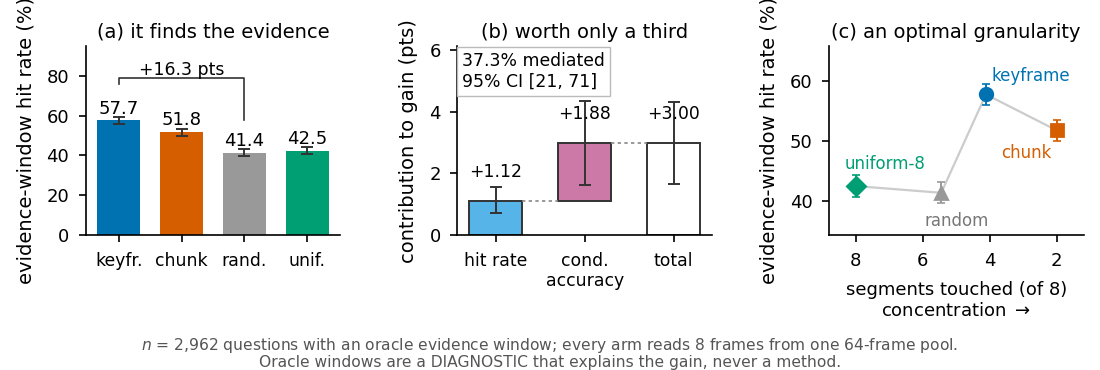
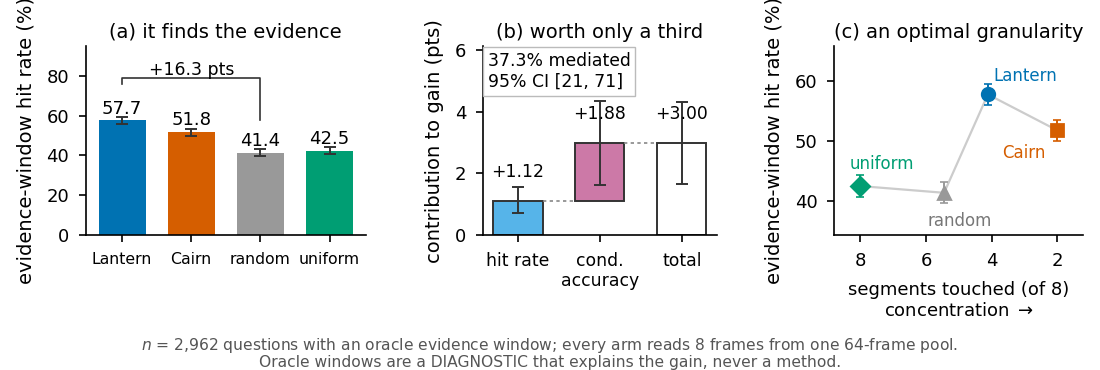
Relabel the method figure for Lantern and Cairn
The figure still carried the working names from before the methods were named. Its bars,
markers and colour key now read Lantern and Cairn, matching the paper text, and the first
panel is widened so the four mode labels no longer collide.

Also ignores the rendered external clip sets and the Overleaf staging directories, all of
which are regenerated rather than tracked.

diff --git a/solutions/shared/analysis/make_paper_figure.py b/solutions/shared/analysis/make_paper_figure.py
@@ -4,12 +4,12 @@
 Authored at the FINAL printed size (5.5in = ICLR \\linewidth) rather than at an arbitrary size and
 scaled by graphicx, so the tick/label point sizes in the PDF are the point sizes on the page.
 
-(a) evidence-window hit rate by selection mode  -> Path 1 finds the evidence
+(a) evidence-window hit rate by selection mode  -> Lantern finds the evidence
 (b) the exact mediation split                   -> ...but that is only a third of the gain
-(c) hit rate against concentration              -> Path 2's granularity is the wrong one
+(c) hit rate against concentration              -> Cairn's granularity is the wrong one
 
 Colours (Okabe-Ito, colourblind-safe), identical to the appendix figures:
-  keyframe / Path 1  #0072B2   chunk / Path 2  #D55E00   random  #999999   uniform-8  #009E73
+  Lantern  #0072B2    Cairn  #D55E00    random-8  #999999    uniform-8  #009E73
 
 All three panels condition on ORACLE evidence windows: they are DIAGNOSTICS that explain the
 measured gain, never methods and never an achievable accuracy.
@@ -28,16 +28,16 @@ matplotlib.rcParams.update({
 })
 D = str(Path(__file__).resolve().parent)
 C = {"referent": "#0072B2", "chunk": "#D55E00", "random": "#999999", "uniform": "#009E73"}
-# short tick labels: at 5.5in across three panels the full names collide, and the path/control
-# identity is carried by colour (stated in the caption) plus panel (c)'s in-place annotations.
-LBL = {"referent": "keyfr.", "chunk": "chunk", "random": "rand.", "uniform": "unif."}
+# Method names in the figure match the names in the text. The two controls are named for what
+# they are rather than for how they were implemented, so the panel is readable without the caption.
+LBL = {"referent": "Lantern", "chunk": "Cairn", "random": "random", "uniform": "uniform"}
 
 p1 = json.load(open(f"{D}/lantern_stats_tol.json"))
 p2 = json.load(open(f"{D}/cairn_stats_tol.json"))
 med = p1["mediation"]["internvl3-14b"]
 order = ["referent", "chunk", "random", "uniform"]
 
-fig, ax = plt.subplots(1, 3, figsize=(5.5, 1.85))
+fig, ax = plt.subplots(1, 3, figsize=(5.5, 1.85), gridspec_kw={"width_ratios": [1.10, 0.92, 0.98]})
 
 # ---- (a) hit rate ---------------------------------------------------------
 a = ax[0]
@@ -52,7 +52,7 @@ for i, x in enumerate(v):
 d = p1["hit_rate_delta"]["referent_minus_random"]
 a.plot([0, 0, 2, 2], [76, 79, 79, 58], lw=0.6, c="#333333")
 a.text(1.0, 80.5, f"+{d['delta']*100:.1f} pts", ha="center", fontsize=6.2)
-a.set_xticks(range(4)); a.set_xticklabels([LBL[m] for m in order], fontsize=6.2)
+a.set_xticks(range(4)); a.set_xticklabels([LBL[m] for m in order], fontsize=5.7)
 a.set_ylabel("evidence-window hit rate (%)"); a.set_ylim(0, 95)
 a.set_title("(a) it finds the evidence", fontsize=7, pad=3)
 
@@ -93,13 +93,13 @@ for m in order:
     e = [(hr[m]["rate"] - hr[m]["ci95"][0]) * 100, (hr[m]["ci95"][1] - hr[m]["rate"]) * 100]
     c.errorbar(bd[m]["mean_distinct_chunks"], bd[m]["hit_rate"], yerr=[[e[0]], [e[1]]],
                fmt=mk[m], ms=4.5, c=C[m], ecolor=C[m], lw=0.7, capsize=1.6, capthick=0.6, zorder=3)
-c.annotate("keyframe", (bd["referent"]["mean_distinct_chunks"], bd["referent"]["hit_rate"]),
+c.annotate("Lantern", (bd["referent"]["mean_distinct_chunks"], bd["referent"]["hit_rate"]),
            textcoords="offset points", xytext=(2, 5), fontsize=6, color=C["referent"])
-c.annotate("chunk", (bd["chunk"]["mean_distinct_chunks"], bd["chunk"]["hit_rate"]),
+c.annotate("Cairn", (bd["chunk"]["mean_distinct_chunks"], bd["chunk"]["hit_rate"]),
            textcoords="offset points", xytext=(-20, -10), fontsize=6, color=C["chunk"])
 c.annotate("random", (bd["random"]["mean_distinct_chunks"], bd["random"]["hit_rate"]),
            textcoords="offset points", xytext=(-6, -12), fontsize=6, color="#777777")
-c.annotate("uniform-8", (bd["uniform"]["mean_distinct_chunks"], bd["uniform"]["hit_rate"]),
+c.annotate("uniform", (bd["uniform"]["mean_distinct_chunks"], bd["uniform"]["hit_rate"]),
            textcoords="offset points", xytext=(-4, 6), fontsize=6, color=C["uniform"])
 c.set_xlim(8.8, 1.2)   # inverted, with margin so the rightmost marker+label stay on canvas
 c.set_xlabel("segments touched (of 8)\nconcentration $\\rightarrow$", fontsize=6.5)
